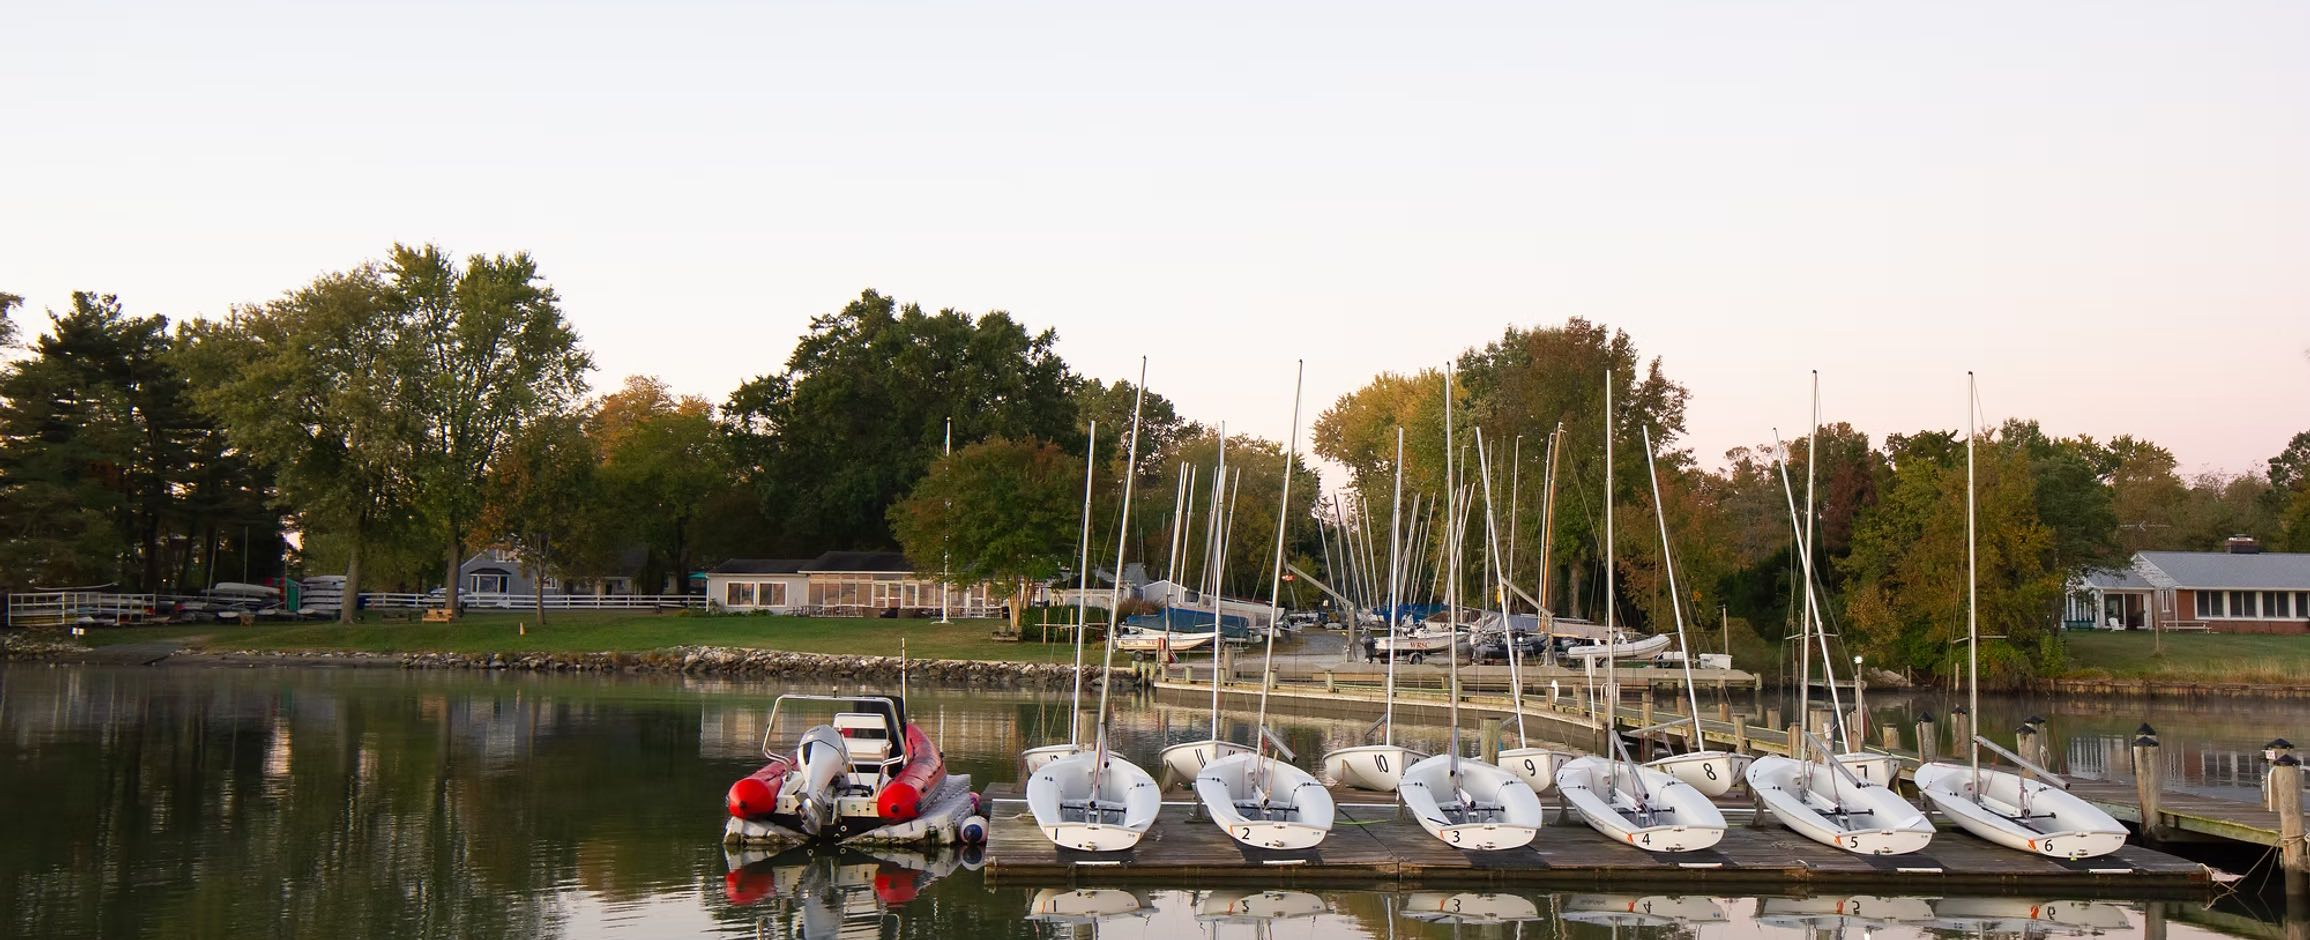
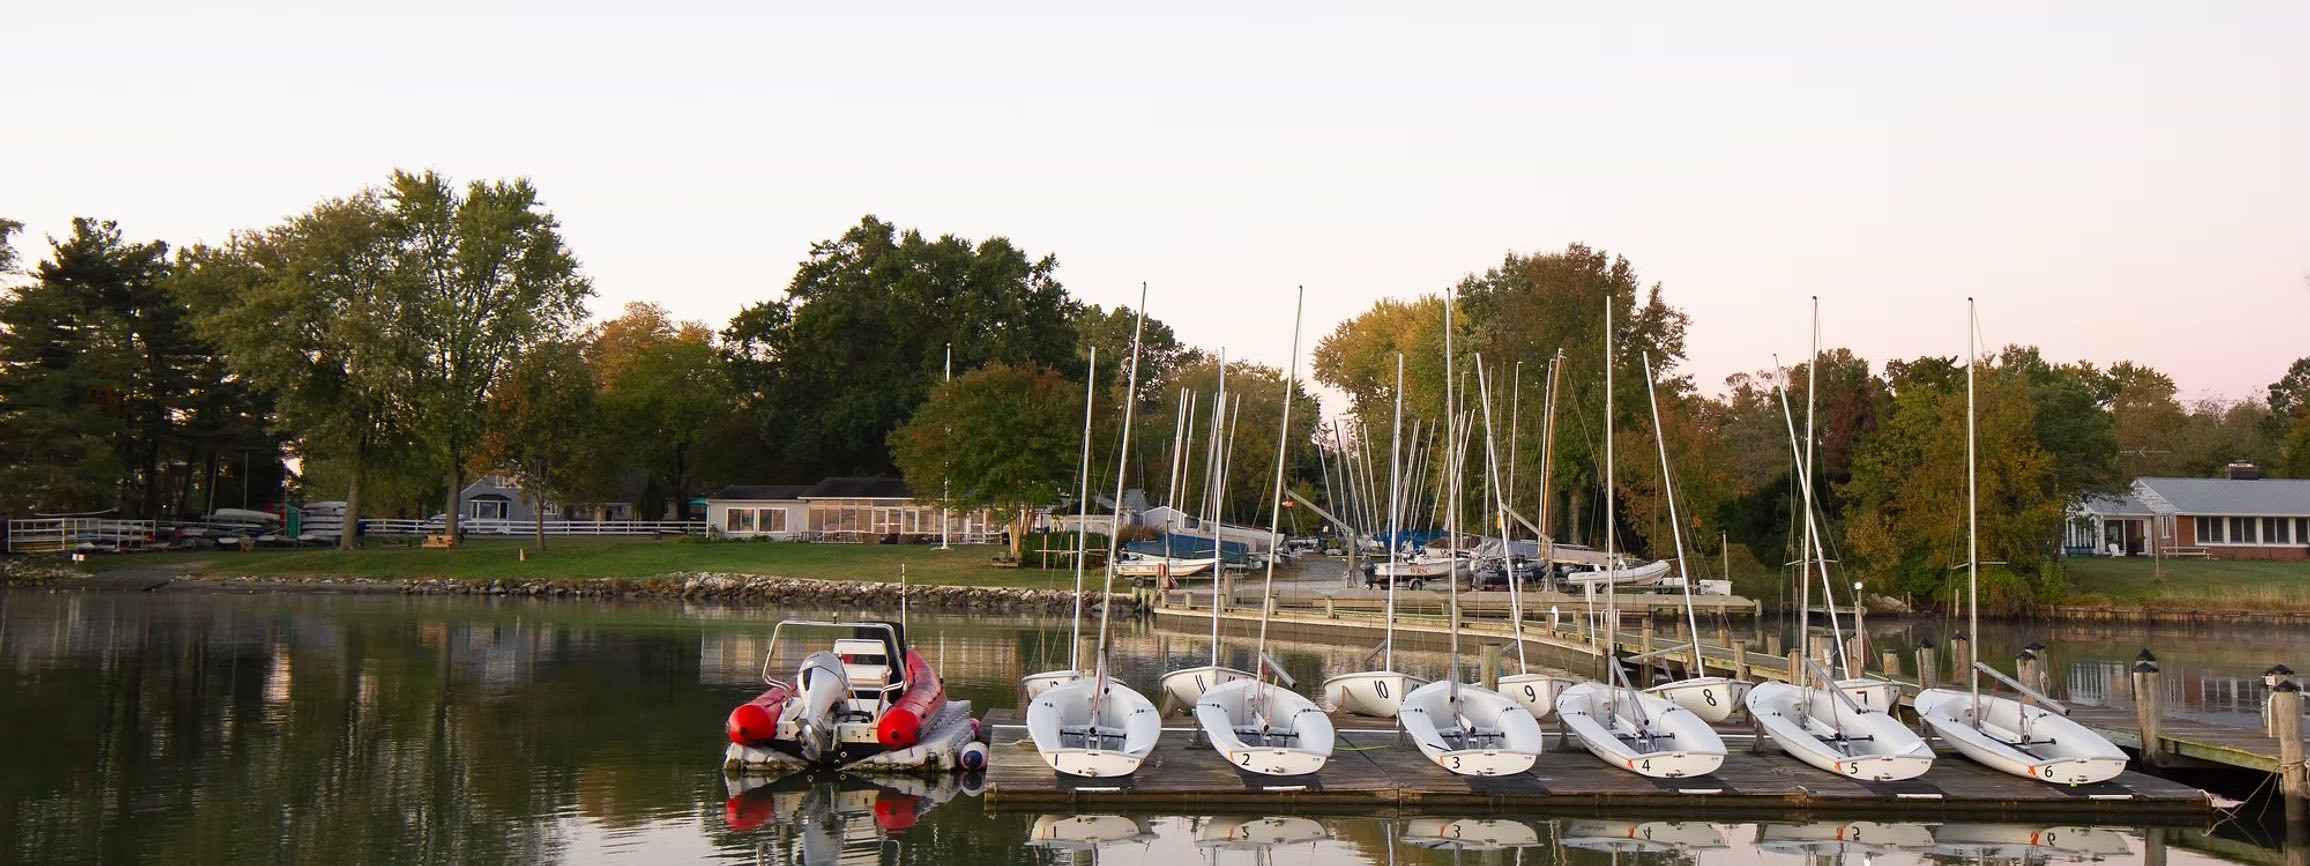
ॐ

diff --git a/_projects/Proj_WrscFm.md b/_projects/Proj_WrscFm.md
@@ -28,7 +28,7 @@ for all to enjoy.
 
 <div class="row">
   <div class="col-sm-8 mt-3 mt-md-0">
-      {% include figure.liquid loading="eager" path="assets/img/Proj_WrscFm_PanoFromDock.jpg" title="PanoFromDock.jpg" title="DockPano" class="img-fluid rounded z-depth-1" %}" class="img-fluid rounded z-depth-1" %}
+      {% include figure.liquid loading="eager" path="assets/img/Proj_WrscFm_PanoFromDock.jpg" title="PanoFromDock" class="img-fluid rounded z-depth-1" %}
   </div>
   <div class="col-sm-4 mt-3 mt-md-0">
       {% include figure.liquid loading="eager" path="assets/img/Proj_WrscFm_DinLect.jpg" title="DinLect" class="img-fluid rounded z-depth-1" %}